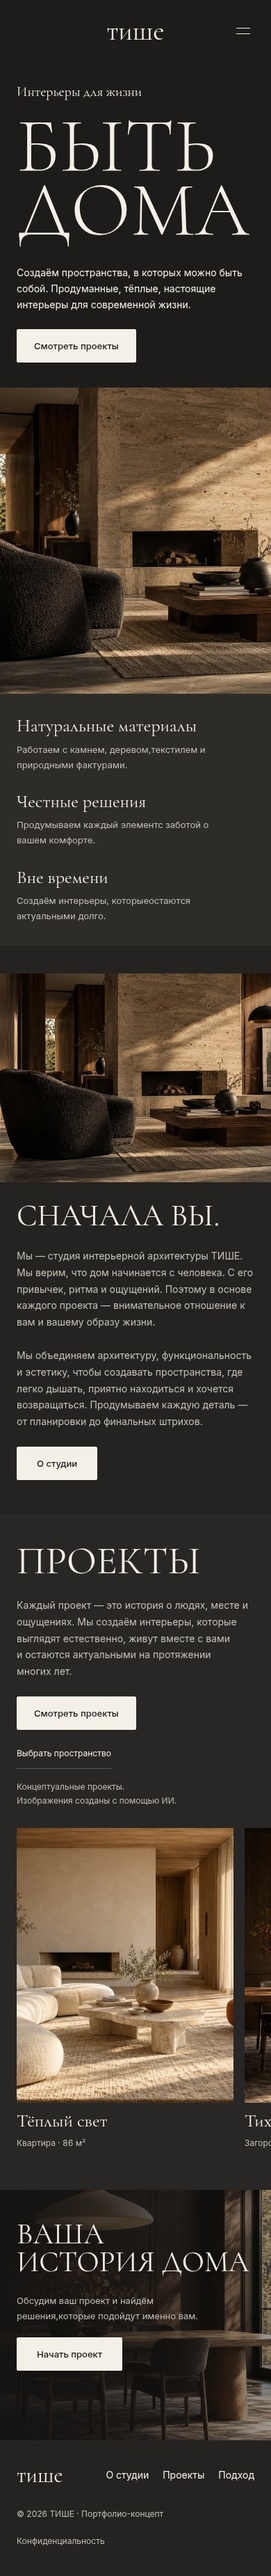
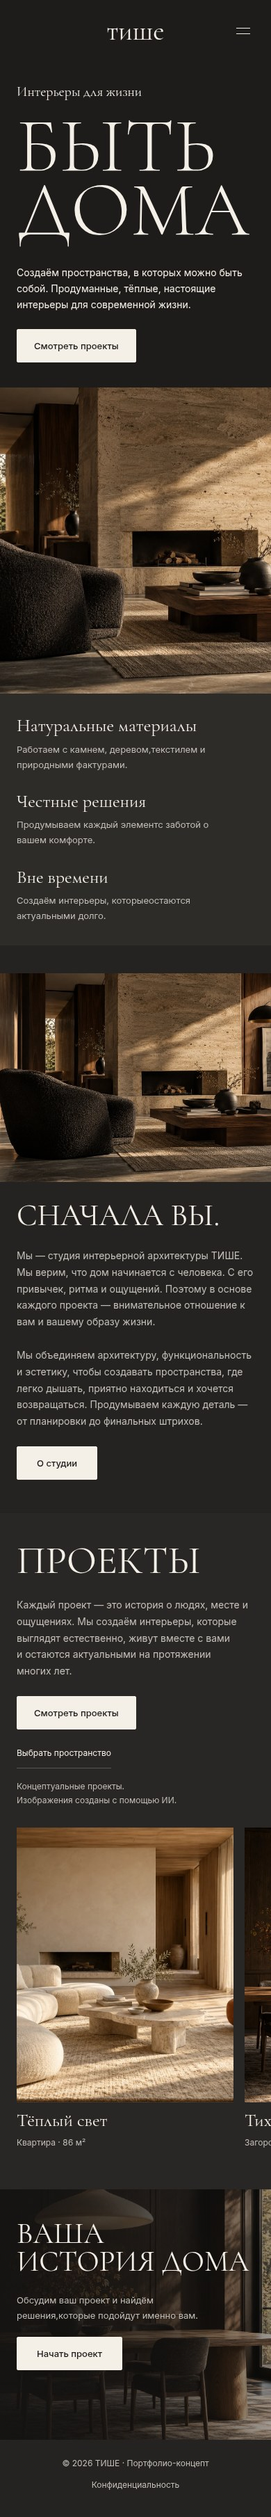
fix: оставить в футере только подпись и конфиденциальность по центру

diff --git a/styles.css b/styles.css
@@ -528,36 +528,16 @@ em {
 }
 .footer {
   display: flex;
-  flex-wrap: wrap;
+  justify-content: center;
   align-items: center;
-  gap: 48px;
   min-height: 104px;
   padding-block: 24px;
-}
-.footer > .logo {
-  font-size: 32px;
-}
-.footer > nav {
-  display: flex;
-  flex-wrap: wrap;
-  align-items: center;
-  gap: 32px;
-  margin-left: auto;
-  font-size: 13px;
-}
-.footer > nav > a {
-  min-height: 44px;
-  display: flex;
-  align-items: center;
-}
-.footer > nav > a:hover {
-  text-decoration: underline;
-  text-underline-offset: 4px;
 }
 .footer-meta {
   display: flex;
   flex-direction: column;
-  align-items: end;
+  align-items: center;
+  text-align: center;
   gap: 0;
   font-size: 12px;
   color: var(--muted);
@@ -634,7 +614,6 @@ em {
 .plain-button:active,
 .text-link:active,
 .navigation > a:active,
-.footer > nav > a:active,
 summary:active {
   color: var(--link-hover);
 }
@@ -891,15 +870,6 @@ form .button {
   .portfolio-intro > p:not(.portfolio-disclaimer):not(.sr-only) {
     font-size: 13px;
   }
-  .footer {
-    gap: 28px;
-  }
-  .footer > nav {
-    gap: 24px;
-  }
-  .footer-meta {
-    font-size: 12px;
-  }
 }
 @media (max-width: 1000px) {
   .wrap {
@@ -1002,17 +972,6 @@ form .button {
   }
   .project-image {
     aspect-ratio: 0.8;
-  }
-  .footer {
-    flex-wrap: wrap;
-    gap: 16px 32px;
-  }
-  .footer-meta {
-    align-items: start;
-    width: 100%;
-    flex-direction: row;
-    align-items: center;
-    justify-content: space-between;
   }
   .contact-copy h2 {
     font-size: 60px;
@@ -1288,24 +1247,6 @@ form .button {
     min-height: 48px;
     font-size: 13px;
   }
-  .footer {
-    padding-block: 28px;
-    gap: 24px;
-  }
-  .footer > .logo {
-    font-size: 32px;
-  }
-  .footer > nav {
-    gap: 20px;
-    font-size: 14px;
-    margin-left: auto;
-  }
-  .footer-meta {
-    font-size: 12px;
-    flex-direction: column;
-    align-items: start;
-    gap: 8px;
-  }
   .plain-button {
     font-size: 12px;
   }
@@ -1365,16 +1306,6 @@ form .button {
   }
   .contact-copy h2 {
     font-size: 42px;
-  }
-  .footer > nav {
-    gap: 16px;
-    font-size: 14px;
-  }
-  .footer > .logo {
-    font-size: 28px;
-  }
-  .footer {
-    gap: 16px;
   }
   .form-row {
     grid-template-columns: minmax(0, 1fr);

diff --git a/index.html b/index.html
@@ -228,11 +228,6 @@
         </section>
       </main>
       <footer class="footer wrap">
-        <a class="logo" href="#main" aria-label="ТИШЕ — на главную">тише</a>
-        <nav aria-label="Навигация в подвале">
-          <a href="#studio">О студии</a><a href="#projects">Проекты</a
-          ><a href="#approach">Подход</a>
-        </nav>
         <div class="footer-meta">
           <span>© <span id="year">2026</span> ТИШЕ · Портфолио-концепт</span
           ><button class="plain-button" id="privacy-button">
